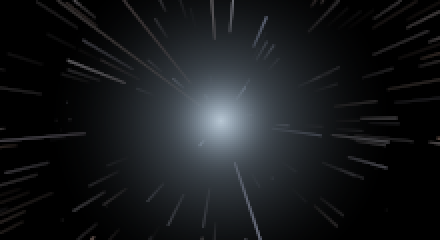
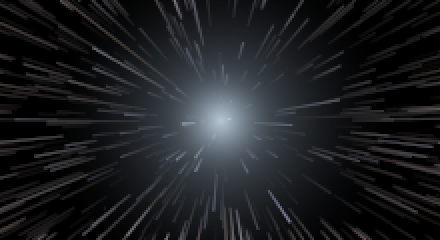
Take the automatic star density back up to 0.02
AUTO_DENSITY was thinned three times — 0.05 to 0.02 to 0.01 to 0.005 —
on an argument that is sound and was carried a step too far. Every star
is drawn as the segment it swept, so lighting the drive turns each one
into a streak several times its own length and a scattering of points
becomes a wash; thinning answers that. What pulls the other way is that
the depth parallax the thinning is protecting needs something to be read
against, and at 0.005 an ordinary window opened with a sky that could be
counted off by eye — nineteen stars at 80x24, forty-three at 120x36.
This is back at the value the second thinning reached, four times that
and still well under where it started. 80x24 opens with 76 now, 120x36
with 172, 200x60 with 480 and 300x90 with 1080.

All six reference flights moved, which is the whole shape this change
can have, and the file records that it is the second time this constant
has done it. None of the six passes --stars, so every one flies on the
automatic count, and two things move in every frame for it: the sky, and
the panel's STARS readout that names the number — 43 to 172 at the
reference framing, checked in the regenerated ascii frames rather than
assumed. The usual reading of this file is inverted here. A hash that
stood still would have been the thing wanting an explanation, since it
would mean some flight was not sizing its pool from the density at all.
Regenerated with the documented recipe against a default-features
[…]

diff --git a/src/app.rs b/src/app.rs
@@ -41,39 +41,48 @@ const MAX_FRAME_DT: f32 = 0.25;
 const MAX_STEP_DT: f32 = 1.0;
 /// Stars per subpixel when the count is chosen automatically.
 ///
-/// Thinned three times now, 0.05 to 0.02 to 0.01 to this, and every time for
-/// the same reason: a field that looks right held still is too dense to fly.
-/// Every star is drawn as the segment it swept, so lighting the drive turns
-/// each one into a streak several times its own length, and what was a
-/// scattering of points becomes a wash with no individual star left in it —
-/// the depth parallax that is most of what the view is for goes with them.
-/// Larger terminals feel it first, because the count follows the area while
-/// the streaks lengthen with the frame as well.
+/// Pulled hard both ways, and it has now been all the way down and part of the
+/// way back. It was thinned three times — 0.05 to 0.02 to 0.01 to 0.005 —
+/// every time on the same argument: a field that looks right held still is too
+/// dense to fly. Every star is drawn as the segment it swept, so lighting the
+/// drive turns each one into a streak several times its own length, and what
+/// was a scattering of points becomes a wash with no individual star left in
+/// it — the depth parallax that is most of what the view is for goes with
+/// them. Larger terminals feel that first, because the count follows the area
+/// while the streaks lengthen with the frame as well.
 ///
-/// It had a floor and a ceiling either side of it and both are gone. The floor
-/// was 300, which at 0.01 was the answer on every window under fifteen
-/// thousand cells — so on an ordinary terminal this number decided nothing at
-/// all, and halving it with the floor still in place would have changed
-/// nothing anybody could see. The ceiling was 20 000, and it is what the
-/// density now answers on its own: `cli`'s cell ceiling holds a canvas to two
-/// million cells, which is four million subpixels, and four million at this
-/// density comes out at twenty thousand.
+/// Pulling the other way: parallax needs something to be read against, and at
+/// 0.005 an ordinary window opened with a sky that could be counted off by eye
+/// — nineteen stars at 80x24, forty-three at 120x36. This is back at 0.02, the
+/// value the second thinning reached, which is four times that sky and still
+/// well under where it started.
 ///
-/// What is left of a ceiling is [`cli::MAX_STARS`], and it is not decoration —
+/// It had a floor and a ceiling either side of it and both are gone, which is
+/// what makes this number the whole of the answer rather than a knob switched
+/// off across most of its range. The floor was 300, which at 0.01 was the
+/// answer on every window under fifteen thousand cells, so on an ordinary
+/// terminal the density decided nothing at all. The ceiling was 20 000, and at
+/// 0.005 the density reproduced it exactly at the largest canvas `cli` allows
+/// — a coincidence worth noticing and not one to build on. At this value that
+/// canvas comes out at 80 000 instead.
+///
+/// What holds that end now is [`cli::MAX_STARS`], and it is not decoration —
 /// [`Flight::new`] is public and takes a size rather than measuring one, so a
 /// caller outside the binary can hand it a canvas no command line would have
 /// been allowed to ask for.
 ///
-/// An 80x24 terminal spawns 19 stars where it spawned 300, a 120x36 one 43,
-/// and a 300x90 one 270 where it spawned 540. `--stars` is unaffected.
-const AUTO_DENSITY: f32 = 0.005;
+/// An 80x24 terminal spawns 76 stars, a 120x36 one 172, a 200x60 one 480 and
+/// a 300x90 one 1080. `--stars` is unaffected.
+const AUTO_DENSITY: f32 = 0.02;
 /// The smallest pool the `-` key will leave behind.
 ///
 /// It was 64, and 64 was chosen against an automatic minimum of 300 that no
-/// longer exists. At this density an ordinary terminal opens well under it —
-/// 80x24 starts with nineteen stars — so a floor up there made `-` *add*
-/// forty-five of them and land both keys on the same number, which is a
-/// control doing the opposite of what it is labelled.
+/// longer exists. A floor up there sits over the count on any window the
+/// density opens thin — 40x12 starts with nineteen stars — so `-` *added*
+/// forty-five of them and landed both keys on the same number, which is a
+/// control doing the opposite of what it is labelled. That bit at 80x24 while
+/// the density was 0.005; quadrupling it moves which windows it bites on and
+/// not whether it does, which is why the floor stayed down here.
 ///
 /// Low enough now to sit under any pool worth pressing `-` on, and
 /// deliberately not lower: `+` multiplies by 1.25 and truncates, so at one,
@@ -1031,8 +1040,8 @@ mod tests {
         // this, and on every window below fifteen thousand cells the floor was
         // the answer and the density decided nothing. Asserted against the
         // density rather than as a ratio between the two counts: the small
-        // canvas wants 4.8 stars and gets 4, so the ratio carries a seventeen
-        // percent truncation the areas know nothing about.
+        // canvas wants 19.2 stars and gets 19, and a ratio would carry that
+        // truncation as an error the two areas know nothing about.
         for r in [&small, &large] {
             let (w, h) = r.canvas_dims();
             let want = (w * h) as f32 * AUTO_DENSITY;
@@ -1063,37 +1072,51 @@ mod tests {
         );
         assert_eq!(auto_stars(1, 2), 1, "a 1x1 terminal is a canvas of two");
 
-        // The ceiling that used to be written down beside the density, arrived
-        // at by the density instead: `cli` holds a canvas to two million
-        // cells, and a cell is two subpixels.
-        assert_eq!(auto_stars(4_000_000, 1), 20_000);
+        // The largest canvas `cli` will allow, that being the one boundary
+        // here which is neither zero nor saturation: two million cells, and a
+        // cell is two subpixels. While the density was 0.005 this came out at
+        // exactly the 20 000 the old ceiling had been written down as, which
+        // was worth noticing and was never the reason to check it.
+        assert_eq!(auto_stars(4_000_000, 1), 80_000);
     }
 
     #[test]
     fn the_star_keys_move_the_pool_the_way_they_point() {
         // Regression, and it arrived with the density rather than before it.
         // The keys clamped up to a floor of 64, which was chosen under an
-        // automatic minimum of 300 and sits over the count on any ordinary
-        // terminal: 80x24 opens with nineteen stars, so `-` added forty-five
-        // of them and both keys landed on the same number. The other half is
-        // the fixed point — `(n as f32 * 1.25) as usize` is `n` again below
-        // four — so the floor could not simply go to one either.
-        let args = args_for(&["--size", "80x24"]);
-        let mut paused = false;
+        // automatic minimum of 300 and sits over the count on any window the
+        // density opens thin: `-` added stars rather than taking them away,
+        // and both keys landed on the same number. The other half is the fixed
+        // point — `(n as f32 * 1.25) as usize` is `n` again below four — so
+        // the floor could not simply go to one either.
+        //
+        // Two windows, because *which* of them is thin moved when the density
+        // did. At 0.005 an 80x24 terminal opened with nineteen stars and a
+        // floor of 64 added forty-five to them; at 0.02 that window opens with
+        // seventy-six and would sail past the floor coming back, while 40x12
+        // opens with nineteen and still catches it.
+        for (cols, rows) in [(80usize, 24usize), (40, 12)] {
+            let size = format!("{cols}x{rows}");
+            let args = args_for(&["--size", &size]);
+            let mut paused = false;
 
-        let mut flight = Flight::new(&args, 80, 24);
-        let opened = flight.field.len();
-        handle_key(press(KeyCode::Char('-')), &mut flight, &args, &mut paused);
-        assert!(
-            flight.field.len() < opened,
-            "`-` took a pool of {opened} to {}",
-            flight.field.len()
-        );
+            let mut flight = Flight::new(&args, cols, rows);
+            let opened = flight.field.len();
+            handle_key(press(KeyCode::Char('-')), &mut flight, &args, &mut paused);
+            assert!(
+                flight.field.len() < opened,
+                "`-` took a {cols}x{rows} pool of {opened} to {}",
+                flight.field.len()
+            );
 
-        let mut flight = Flight::new(&args, 80, 24);
-        let opened = flight.field.len();
-        handle_key(press(KeyCode::Char('+')), &mut flight, &args, &mut paused);
-        assert!(flight.field.len() > opened, "`+` left the pool at {opened}");
+            let mut flight = Flight::new(&args, cols, rows);
+            let opened = flight.field.len();
+            handle_key(press(KeyCode::Char('+')), &mut flight, &args, &mut paused);
+            assert!(
+                flight.field.len() > opened,
+                "`+` left a {cols}x{rows} pool at {opened}"
+            );
+        }
 
         // And the floor stands clear of the fixed point, so `+` still has
         // somewhere to go from the smallest pool it can be pressed on. Through

diff --git a/CLAUDE.md b/CLAUDE.md
@@ -781,9 +781,11 @@ so they cannot walk the pool past what the command line would have accepted.
 They used to clamp to a separate 20 000 that sat *under* what `--stars` allowed,
 which meant `--stars 100000` and a single `+` shrank the pool by four fifths.
 Their *floor* moved with the density and is now `POOL_FLOOR`: 64 was chosen
-against an automatic minimum of 300, and at 0.005 an ordinary terminal opens at
-nineteen stars, so a floor up there made `-` *add* forty-five of them and landed
-both keys on the same number. It is 8 rather than 1 because `+` multiplies by
+against an automatic minimum of 300, and a floor up there sits over the count on
+any window the density opens thin, so `-` *added* stars and landed both keys on
+the same number. Which windows those are moves with `AUTO_DENSITY` — at 0.005 it
+was an ordinary 80x24, at today's 0.02 it is 40x12 — so the test that holds it
+flies both. It is 8 rather than 1 because `+` multiplies by
 1.25 and truncates, so below four stars the key gives the same number back and
 swallows the press — `the_star_keys_move_the_pool_the_way_they_point` holds both
 halves of that.
